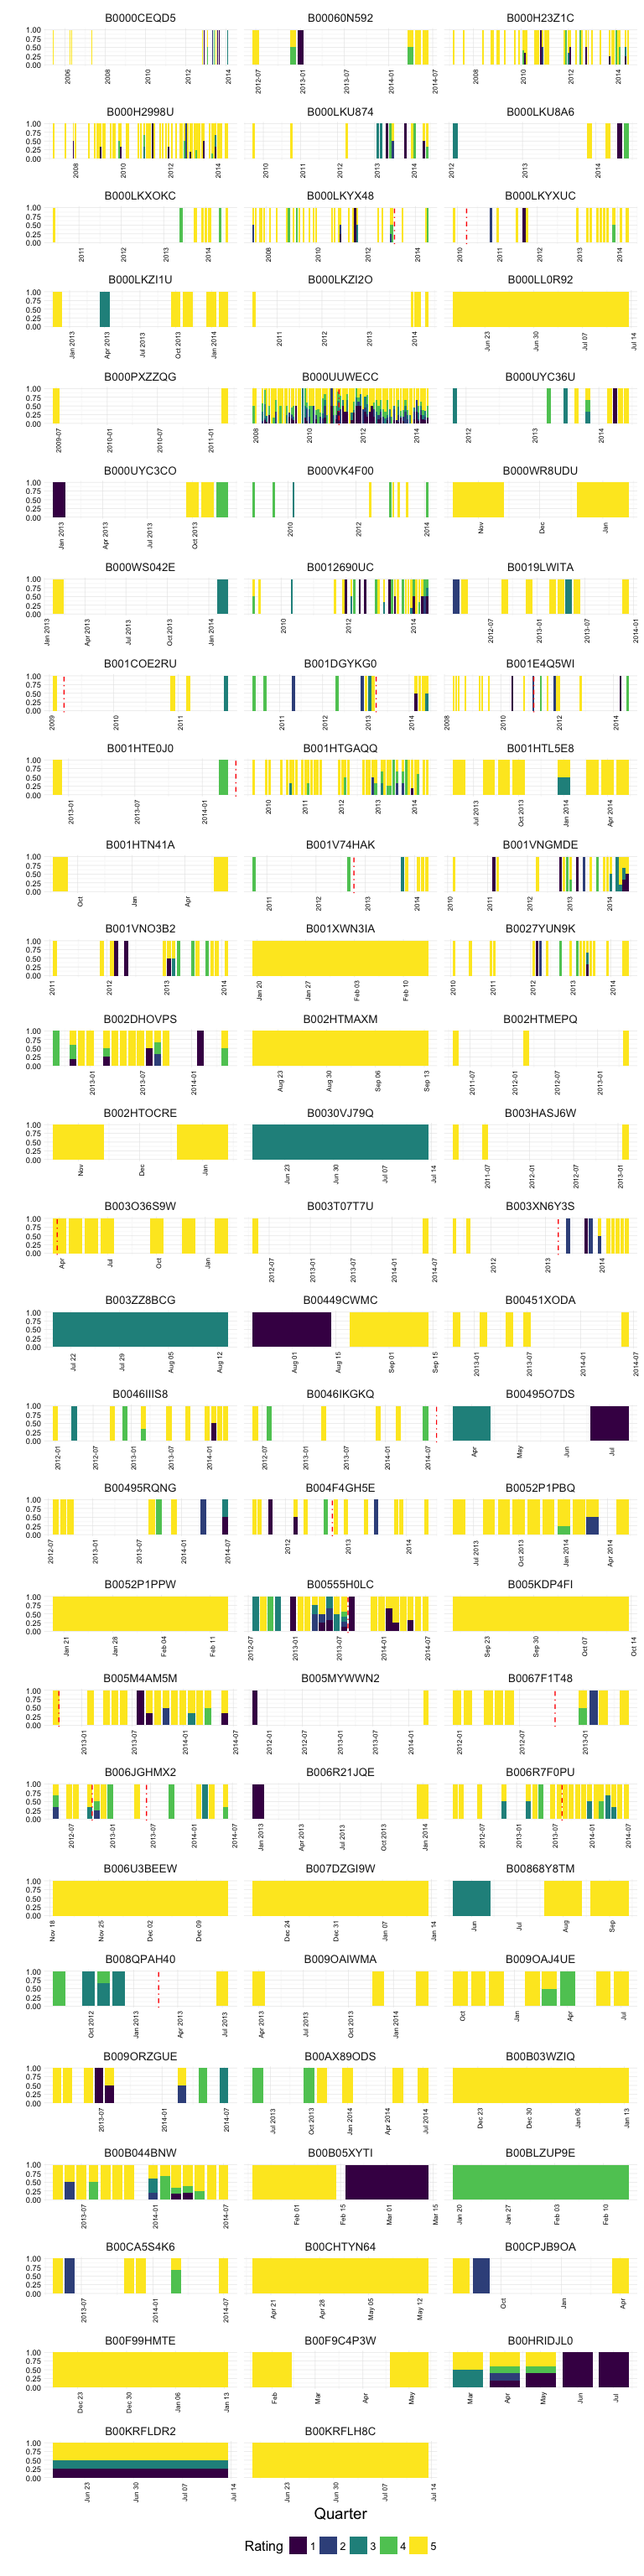
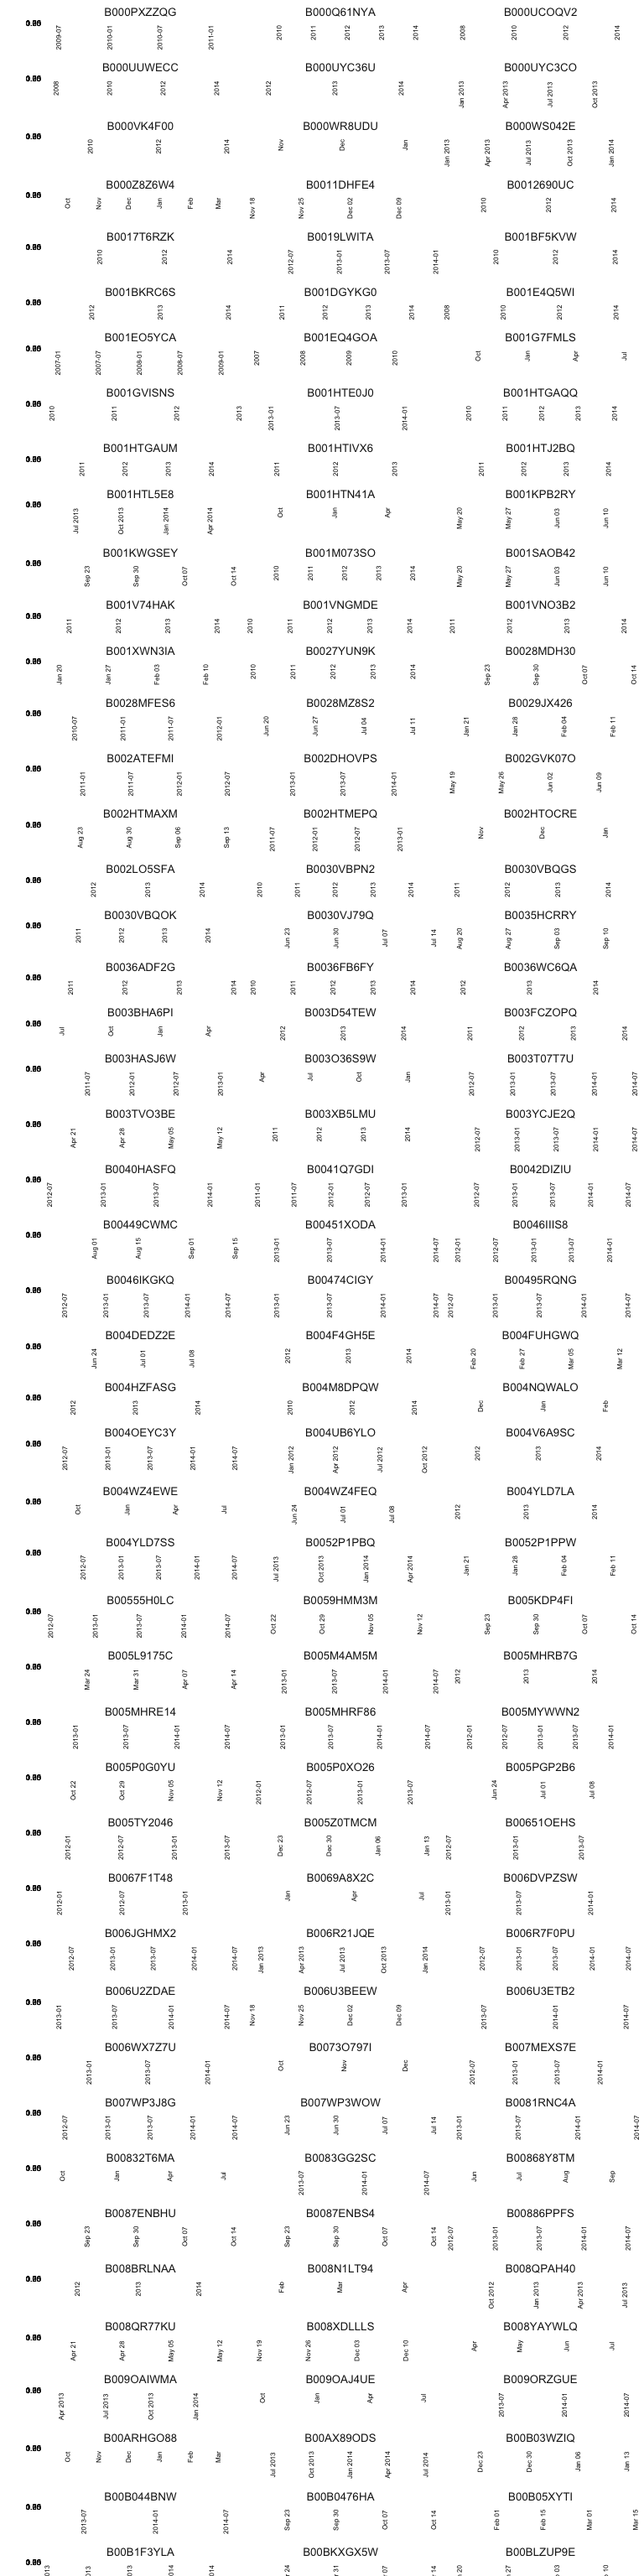
Update summary vis file with updated list of ASINs

Changed region(s): [[0.0312, 0.0, 1.0, 1.0], [0.9688, 0.4062, 1.0, 0.4688], [0.375, 0.0, 0.4062, 0.0312]]

diff --git a/notebooks/review_summary_vis.md b/notebooks/review_summary_vis.md
@@ -22,18 +22,17 @@ Then, load the Amazon review data and list of recalled UPCs/ASINs.
 
 ``` r
 ## Load Amazon review data
-json_file <- "../data/processed/reviews_Grocery_and_Gourmet_Food_strict.json"
-amz <- fromJSON(sprintf("[%s]", paste(readLines(json_file), collapse=",")))
+json_file <- "../data/raw/reviews_Grocery_and_Gourmet_Food.json"
+amz <- stream_in(file(json_file))
 
-## Load list of recalled UPCs/ASINs
-recalled <- read.csv("../data/processed/recalls_upcs_asins_joined.csv",
+## Load list of recalled products
+recalled <- read.csv("../github_data/asin_intersection_full.csv",
                      stringsAsFactors = FALSE)
 
-## Vector of ASINs from recalled products
-recalled_asins <- unique(recalled$asins) %>%
-  sapply(strsplit, ";") %>%
-  unname() %>%
-  unlist()
+recalled <- mutate(recalled, initiation_date = as.Date(initiation_date))
+
+## Extract vector of ASINs of recalled products
+recalled_asins <- unique(recalled$asin)
 
 ## Add column to indicate whether product was recalled. Also create a proper
 ## date column in YYYY-MM-DD, and a year column.
@@ -58,7 +57,7 @@ mytheme <- theme_update(
 Review counts of recalled vs. non-recalled products
 ---------------------------------------------------
 
-There are a total of 1638 reviews for recalled food products and 1295518 reviews for non-recalled food products.
+There are a total of 5149 reviews for recalled food products and 1292007 reviews for non-recalled food products.
 
 ``` r
 ggplot(amz_clean, aes(x = recall, fill = recall)) +
@@ -217,30 +216,21 @@ ggplot(top_asins_ratings, aes(x = newdate, y = n, fill = overall)) +
 Visualize monthly rating distribution for all recalled products with recall date overlaid.
 
 ``` r
-## Data frame of recall date and ASIN
-recall_dates <- recalled %>%
-  filter(asins != "") %>%
-  select(DATE, asins) %>%
-  separate(asins, into = 1:120, sep = ";", fill = "right") %>%
-  gather(col, asin, -DATE) %>%
-  filter(!is.na(asin)) %>%
-  mutate(recall_date = as.Date(DATE, format = "%a, %d %b %Y %T")) %>%
-  select(-DATE, -col)
-
-## Join with reviews data
+## Join recalled ASINs + dates with reviews data
 joined_asin_recall <- amz_clean %>%
   filter(recall == "Recalled") %>%
   mutate(month = month(date)) %>%
   group_by(asin, year, month, overall) %>%
   tally() %>%
   mutate(newdate = as.Date(paste(year, month, "01", sep = "-"))) %>%
-  left_join(recall_dates, by = "asin") %>%
+  left_join(recalled, by = "asin") %>%
   mutate(overall = as.character(overall))
 
 ## Stacked bar chart with recall date overlaid
 ggplot(joined_asin_recall, aes(x = newdate, y = n, fill = overall)) +
   geom_bar(position = "fill", stat = "identity") +
-  geom_vline(aes(xintercept = as.numeric(recall_date)), linetype = 4, color = "red") +
+  geom_vline(aes(xintercept = as.numeric(initiation_date)),
+             linetype = 4, color = "red") +
   facet_wrap(~ asin, scales = "free_x", ncol = 3) +
   scale_fill_viridis(discrete = TRUE) +
   theme(axis.text.x = element_text(size = 6, angle = 90, margin = margin(t = -12)),
